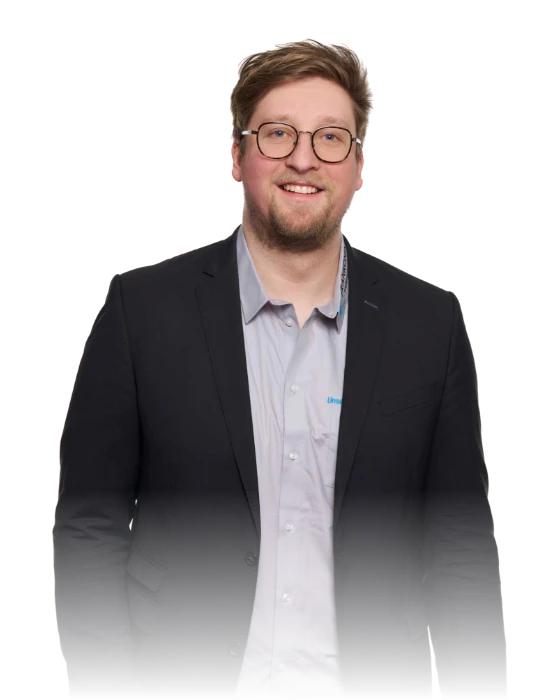
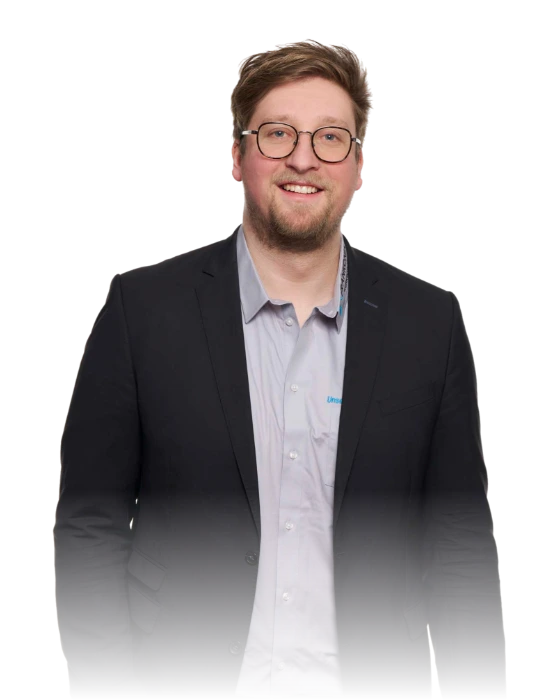
Freisteller sauber, Fuehrungsreihe auf vier und verlinkt, Hero-Kasten endgueltig weg
WEISSER SAUM — der Kunde hatte recht, und es war ein Denkfehler in der Formel,
keine zu enge Schwelle. Beobachtet wird L = a·F + (1−a)·W, also
a = (W − L)/(W − F). Ich hatte F als KONSTANTE 196 eingesetzt; ein schwarzer
Anzug hat aber F ≈ 20. Fuer ein Randpixel bei L = 165 rechnet das
a = 1,6 → gekappt auf 1 → VOLL DECKEND in der Farbe des Saums. Richtig sind
0,36. F wird jetzt LOKAL gemessen (nach innen laufen, Helligkeit nehmen).

Vier weitere Ursachen, jede einzeln gemessen und behoben:
- EINGESCHLOSSENE Hintergrundflaechen. Bei Daniel Wettengel 32488 px reines
  Studioweiss zwischen Arm und Koerper — vom Bildrand aus nicht erreichbar,
  also von der Flutfuellung nie gefunden. Genau das hat der Kunde genannt.
  ⚠ Bryans EINSTECKTUCH ist auch eine eingeschlossene helle Flaeche. Zwei
  Waechter, beide muessen zutreffen: so hell wie der GEMESSENE Hintergrund
  (±7) und gross genug, um sichtbar zu sein. Das Tuch liegt bei 235 gegen 248
  und faellt schon am ersten Waechter raus — nachgesehen, es ist noch da.
- Die Uebergangszone war mit 5 px zu flach: helle Luecken im HAAR liegen
  tiefer und blieben deckend. Jetzt 12 px, und das ist gefahrlos, weil die
  Formel selbstbegrenzend ist — ein dunkles Pixel hat L ≈ F, also a ≈ 1.
- Der Deckel auf F war zu lax und erzeugte die Sprenkel im blonden Haar.
- Der Hintergrund wird JE KANAL gemessen. Studioweiss ist nicht neutral
  (248,248,250); ein gemeinsamer Wert kippt das Kanalverhaeltnis und liess in
[…]

diff --git a/pages/ueber-uns.html b/pages/ueber-uns.html
@@ -301,7 +301,7 @@
              both follow the same reading order. -->
         <div class="uu-lead__text">
           <h2>Wer hinter FRANKONIA steht</h2>
-          <p>Steffen Walde, Betriebswirt (B.Sc.) und Geschäftsführender Gesellschafter, führt FRANKONIA seit der Gründung. Sein Anspruch: zertifizierte Qualität, übertariflich bezahlte Teams und Sicherheitskonzepte, die genau zum Objekt passen. Begehungen und Konzepte erstellen bei FRANKONIA erfahrene Sicherheitsexperten, nicht der Vertrieb.</p>
+          <p><a class="uu-lead__person" href="/steffen-walde-sicherheitsdienst/">Steffen Walde</a>, Betriebswirt (B.Sc.) und Geschäftsführender Gesellschafter, führt FRANKONIA seit der Gründung. Sein Anspruch: zertifizierte Qualität, übertariflich bezahlte Teams und Sicherheitskonzepte, die genau zum Objekt passen. Begehungen und Konzepte erstellen bei FRANKONIA erfahrene Sicherheitsexperten, nicht der Vertrieb.</p>
         </div>
         <!-- Real portrait, delivered 2026-08-10 — replaces the reserved 4:5
              frame that used to hold this space (Alexander Jäger's on /werkschutz/
@@ -343,10 +343,17 @@
              Paar auseinanderreißen. Inhaltlich passt es ohnehin hierher:
              oben steht, wer FRANKONIA führt, hier steht der Rest der Führung.
 
-             ⚠ Die fünf sind NICHT auf ihre Visitenkarten-Seiten verlinkt.
-             Die tragen robots="noindex,follow" und stehen nicht im Sitemap —
-             das sind QR-Karten, keine Unterseiten. Ob sie öffentlich verlinkt
-             werden sollen, ist eine Entscheidung des Kunden, keine Bautechnik.
+             ⚠ 05.09.2026, zweite Runde: STEFFEN IST HIER RAUS. Er steht direkt
+             darüber groß mit Namen und Rolle; ihn darunter noch einmal zu
+             listen liest sich wie zwei verschiedene Personen. Sein Name im
+             Absatz darüber ist stattdessen verlinkt.
+             ⚠ Die vier sind jetzt AUF IHRE VISITENKARTEN-SEITEN verlinkt
+             (Kundenentscheidung). Die Zielseiten behalten robots="noindex" und
+             bleiben aus dem Sitemap: das sind bewusst dünne QR-Karten. Ein Link
+             von einer indexierten Seite auf eine noindex-Seite ist regulär —
+             Google folgt ihm, nimmt die Karte aber nicht in den Index.
+             ⚠ Bryan hat nur eine Werkschutz-Karte, die anderen drei die
+             Sicherheitsdienst-Fassung. Geprüft, nicht aus dem Namen abgeleitet.
 
              Rollen wörtlich aus den Visitenkarten-Seiten übernommen.
              ⚠ Die Überschrift ist für diesen Bau geschrieben, sie steht in
@@ -355,44 +362,44 @@
           <h3 class="uu-fuehrung__title">Unsere Führungskräfte</h3>
           <ul class="uu-fuehrung__list" data-item-reveal="li">
             <li class="uu-fuehrung__item">
-              <picture>
-                <source type="image/webp" srcset="/assets/images/uu-team-steffen-walde-280.webp 280w, /assets/images/uu-team-steffen-walde-560.webp 560w" sizes="(min-width: 1100px) 13rem, (min-width: 640px) 22vw, 40vw">
-                <img class="uu-fuehrung__foto" src="/assets/images/uu-team-steffen-walde-560.jpg" width="560" height="700" alt="Steffen Walde, Geschäftsführender Gesellschafter" loading="lazy" decoding="async">
-              </picture>
-              <p class="uu-fuehrung__name">Steffen Walde</p>
-              <p class="uu-fuehrung__role">Geschäftsführender Gesellschafter</p>
+              <a class="uu-fuehrung__link" href="/alexander-jaeger-sicherheitsdienst/">
+                <picture>
+                  <source type="image/webp" srcset="/assets/images/uu-team-alexander-jaeger-280.webp 280w, /assets/images/uu-team-alexander-jaeger-560.webp 560w" sizes="(min-width: 1100px) 17rem, (min-width: 640px) 28vw, 44vw">
+                  <img class="uu-fuehrung__foto" src="/assets/images/uu-team-alexander-jaeger-560.jpg" width="560" height="700" alt="Alexander Jäger, Vertriebsleiter" loading="lazy" decoding="async">
+                </picture>
+                <span class="uu-fuehrung__name">Alexander Jäger</span>
+                <span class="uu-fuehrung__role">Vertriebsleiter</span>
+              </a>
             </li>
             <li class="uu-fuehrung__item">
-              <picture>
-                <source type="image/webp" srcset="/assets/images/uu-team-alexander-jaeger-280.webp 280w, /assets/images/uu-team-alexander-jaeger-560.webp 560w" sizes="(min-width: 1100px) 13rem, (min-width: 640px) 22vw, 40vw">
-                <img class="uu-fuehrung__foto" src="/assets/images/uu-team-alexander-jaeger-560.jpg" width="560" height="700" alt="Alexander Jäger, Vertriebsleiter" loading="lazy" decoding="async">
-              </picture>
-              <p class="uu-fuehrung__name">Alexander Jäger</p>
-              <p class="uu-fuehrung__role">Vertriebsleiter</p>
+              <a class="uu-fuehrung__link" href="/daniel-wettengel-sicherheitsdienst/">
+                <picture>
+                  <source type="image/webp" srcset="/assets/images/uu-team-daniel-wettengel-280.webp 280w, /assets/images/uu-team-daniel-wettengel-560.webp 560w" sizes="(min-width: 1100px) 17rem, (min-width: 640px) 28vw, 44vw">
+                  <img class="uu-fuehrung__foto" src="/assets/images/uu-team-daniel-wettengel-560.jpg" width="560" height="700" alt="Daniel Wettengel, Einsatzleiter" loading="lazy" decoding="async">
+                </picture>
+                <span class="uu-fuehrung__name">Daniel Wettengel</span>
+                <span class="uu-fuehrung__role">Einsatzleiter</span>
+              </a>
             </li>
             <li class="uu-fuehrung__item">
-              <picture>
-                <source type="image/webp" srcset="/assets/images/uu-team-daniel-wettengel-280.webp 280w, /assets/images/uu-team-daniel-wettengel-560.webp 560w" sizes="(min-width: 1100px) 13rem, (min-width: 640px) 22vw, 40vw">
-                <img class="uu-fuehrung__foto" src="/assets/images/uu-team-daniel-wettengel-560.jpg" width="560" height="700" alt="Daniel Wettengel, Einsatzleiter" loading="lazy" decoding="async">
-              </picture>
-              <p class="uu-fuehrung__name">Daniel Wettengel</p>
-              <p class="uu-fuehrung__role">Einsatzleiter</p>
+              <a class="uu-fuehrung__link" href="/bryan-van-wey-werkschutz/">
+                <picture>
+                  <source type="image/webp" srcset="/assets/images/uu-team-bryan-van-wey-280.webp 280w, /assets/images/uu-team-bryan-van-wey-560.webp 560w" sizes="(min-width: 1100px) 17rem, (min-width: 640px) 28vw, 44vw">
+                  <img class="uu-fuehrung__foto" src="/assets/images/uu-team-bryan-van-wey-560.jpg" width="560" height="700" alt="Bryan Van Wey, Einsatzleiter" loading="lazy" decoding="async">
+                </picture>
+                <span class="uu-fuehrung__name">Bryan Van Wey</span>
+                <span class="uu-fuehrung__role">Einsatzleiter</span>
+              </a>
             </li>
             <li class="uu-fuehrung__item">
-              <picture>
-                <source type="image/webp" srcset="/assets/images/uu-team-bryan-van-wey-280.webp 280w, /assets/images/uu-team-bryan-van-wey-560.webp 560w" sizes="(min-width: 1100px) 13rem, (min-width: 640px) 22vw, 40vw">
-                <img class="uu-fuehrung__foto" src="/assets/images/uu-team-bryan-van-wey-560.jpg" width="560" height="700" alt="Bryan Van Wey, Einsatzleiter" loading="lazy" decoding="async">
-              </picture>
-              <p class="uu-fuehrung__name">Bryan Van Wey</p>
-              <p class="uu-fuehrung__role">Einsatzleiter</p>
-            </li>
-            <li class="uu-fuehrung__item">
-              <picture>
-                <source type="image/webp" srcset="/assets/images/uu-team-christoph-bauer-280.webp 280w, /assets/images/uu-team-christoph-bauer-560.webp 560w" sizes="(min-width: 1100px) 13rem, (min-width: 640px) 22vw, 40vw">
-                <img class="uu-fuehrung__foto" src="/assets/images/uu-team-christoph-bauer-560.jpg" width="560" height="700" alt="Christoph Bauer, Marketing- und Projektmanager" loading="lazy" decoding="async">
-              </picture>
-              <p class="uu-fuehrung__name">Christoph Bauer</p>
-              <p class="uu-fuehrung__role">Marketing- und Projektmanager</p>
+              <a class="uu-fuehrung__link" href="/christoph-bauer-sicherheitsdienst/">
+                <picture>
+                  <source type="image/webp" srcset="/assets/images/uu-team-christoph-bauer-280.webp 280w, /assets/images/uu-team-christoph-bauer-560.webp 560w" sizes="(min-width: 1100px) 17rem, (min-width: 640px) 28vw, 44vw">
+                  <img class="uu-fuehrung__foto" src="/assets/images/uu-team-christoph-bauer-560.jpg" width="560" height="700" alt="Christoph Bauer, Marketing- und Projektmanager" loading="lazy" decoding="async">
+                </picture>
+                <span class="uu-fuehrung__name">Christoph Bauer</span>
+                <span class="uu-fuehrung__role">Marketing- und Projektmanager</span>
+              </a>
             </li>
           </ul>
         </div>

diff --git a/css/page-ueber-uns.css b/css/page-ueber-uns.css
@@ -1021,10 +1021,42 @@
   gap: var(--space-6) var(--space-5);
 }
 
+/* ⚠ 05.09.2026 DEUTLICH GROESSER (Kunde: "sehr klein aufgeführt") und nur noch
+   VIER statt fuenf — Steffen steht direkt darueber gross. Vier passen bei 17rem
+   samt Abstaenden in den Container (4 x 272 + 3 x 24 = 1160 gegen ~1300). */
 .uu-fuehrung__item {
-  flex: 0 1 clamp(8.5rem, 17vw, 13rem);
-  max-width: 13rem;
+  flex: 0 1 clamp(10rem, 21vw, 17rem);
+  max-width: 17rem;
   text-align: center;
+}
+
+/* Die ganze Kachel ist der Link, nicht nur der Name: ein 272 px breites Foto
+   mit Namen darunter ist ein Ziel, kein Foto neben einem Ziel.
+   ⚠ display: block, sonst bleibt der Anker inline und das Foto bekommt die
+   Grundlinienluecke eines Inline-Elements darunter. */
+.uu-fuehrung__link {
+  display: block;
+  color: inherit;
+  text-decoration: none;
+  border-radius: var(--radius-md);
+  transition: transform var(--duration-base) var(--easing-standard);
+}
+
+/* ⚠ transform, nicht translate: das Elternelement <li> traegt
+   data-item-reveal, und GSAP schreibt dort translate/rotate/scale inline.
+   Der Anker ist ein KIND davon, also kollidiert nichts — genau der Grund,
+   warum data-item-reveal auf dem <li> steht und nicht auf der Kachel. */
+.uu-fuehrung__link:hover,
+.uu-fuehrung__link:focus-visible {
+  transform: translateY(-4px);
+}
+.uu-fuehrung__link:hover .uu-fuehrung__name,
+.uu-fuehrung__link:focus-visible .uu-fuehrung__name {
+  color: var(--color-accent);
+}
+.uu-fuehrung__link:focus-visible {
+  outline: 2px solid var(--color-focus-ring);
+  outline-offset: var(--space-2);
 }
 
 /* aspect-ratio hält den Platz, bevor das Bild da ist — sonst springt die
@@ -1044,6 +1076,7 @@
    lag der Name dann aber AUF dem Anzug. Der Verlauf beginnt bei 70 % der
    Bildhoehe, also sind die letzten 30 % noch sichtbarer Koerper, nicht Luft. */
 .uu-fuehrung__name {
+  display: block;
   margin: var(--space-2) 0 0;
   font-size: var(--font-size-base);
   font-weight: 500;
@@ -1051,6 +1084,7 @@
 }
 
 .uu-fuehrung__role {
+  display: block;
   margin: 0.125rem 0 0;
   font-size: var(--font-size-sm);
   color: var(--color-text-muted);
@@ -1068,9 +1102,30 @@
   .uu-fuehrung__list {
     gap: var(--space-5) var(--space-4);
   }
-  /* Zwei je Zeile auf dem Telefon: bei fünf nebeneinander wäre ein Kopf
-     ~55px breit und niemand zu erkennen. */
+  /* Zwei je Zeile auf dem Telefon: nebeneinander waere ein Kopf ~55px breit
+     und niemand zu erkennen. Bei vier Personen geht das glatt auf, ohne
+     einzelne Waise in der letzten Zeile. */
   .uu-fuehrung__item {
     flex: 0 1 calc(50% - var(--space-4));
+    max-width: none;
   }
+}
+
+/* Steffens Name im Fließtext führt auf seine Visitenkarte (Kunde 05.09.2026:
+   "genauso wie bei Steffen kann man dort hin verlinken").
+   ⚠ Der WORTLAUT ist unangetastet — es kam nur ein Anker um die zwei Wörter.
+   Kein Unterstrich im Ruhezustand: der Absatz ist Fließtext, und eine
+   unterstrichene Zeile mitten im ersten Satz zieht mehr Aufmerksamkeit als die
+   Überschrift darüber. Beim Überfahren und beim Tabben ist er eindeutig. */
+.uu-lead__person {
+  color: inherit;
+  text-decoration: none;
+  border-bottom: 1px solid var(--color-border-strong);
+  transition: color var(--duration-base) var(--easing-standard),
+    border-color var(--duration-base) var(--easing-standard);
+}
+.uu-lead__person:hover,
+.uu-lead__person:focus-visible {
+  color: var(--color-accent);
+  border-bottom-color: var(--color-accent);
 }
